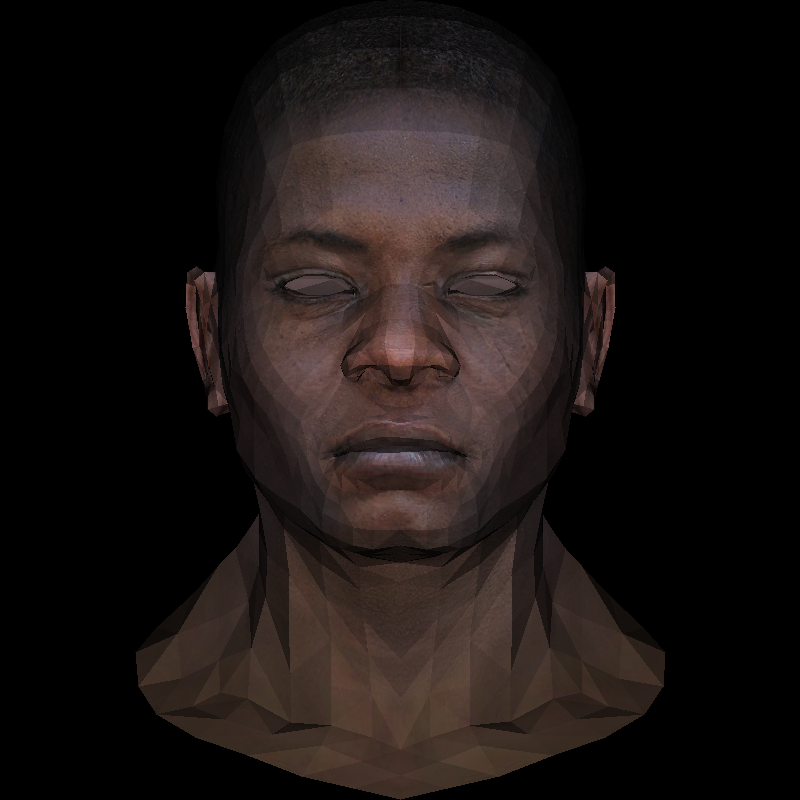
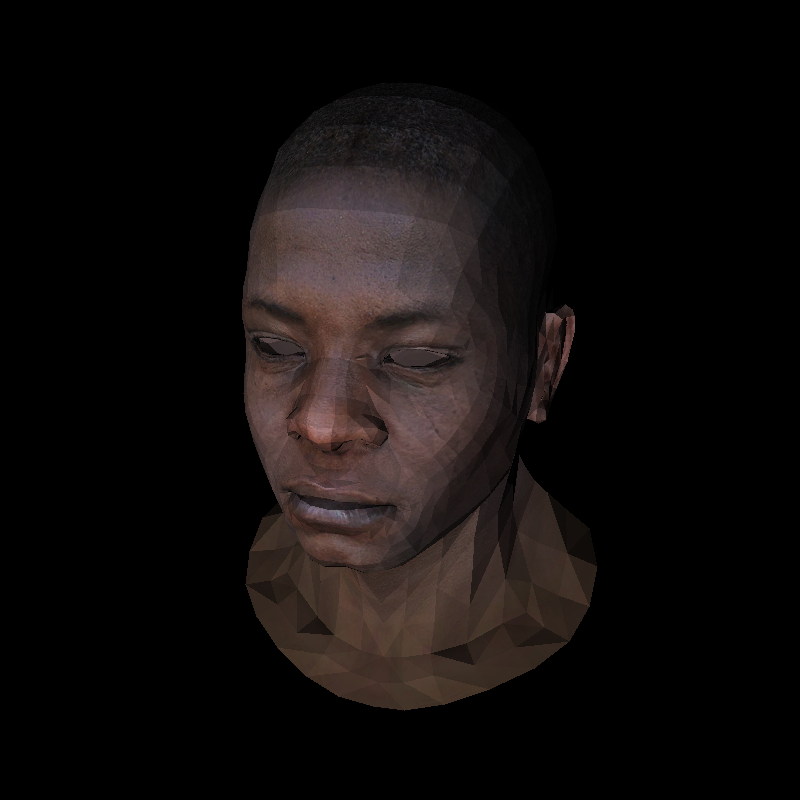
Add lookat matrix

Changed region(s): [[0.1562, 0.0, 0.8438, 1.0]]

diff --git a/src/main.rs b/src/main.rs
@@ -1,8 +1,9 @@
-use image::{imageops, Rgb, RgbImage, Pixel};
-use std::{mem};
+use image::{imageops, Pixel, Rgb, RgbImage};
+use std::mem;
+mod camera;
 mod model;
 mod rgb;
-use nalgebra::{SVector, Vector2, Vector3};
+use nalgebra::{SVector, SMatrix, Vector2, Vector3};
 
 const WIDTH: f32 = 800.0;
 const HEIGHT: f32 = 800.;
@@ -20,7 +21,6 @@ fn barycentric(pts: &Vec<SVector<f32, 3>>, P: SVector<f32, 3>) -> SVector<f32, 3
     );
 
     let u = v1.cross(&v2);
-    //println!("{} {} {}", u.x, u.y, u.z);
 
     /* `pts` and `P` has integer value as coordinates
     so `abs(u[2])` < 1 means `u[2]` is 0, that means
@@ -72,7 +72,7 @@ fn triangle(
     image: &mut RgbImage,
     texture: &RgbImage,
     vertices_texture_coords: Vec<SVector<f32, 3>>,
-    intensity: f32
+    intensity: f32,
 ) {
     let (imwidth, imheight) = (image.width() as f32, image.height() as f32);
     let (texwidth, texheight) = (texture.width() as f32, texture.height() as f32);
@@ -111,15 +111,22 @@ fn triangle(
             if zbuffer[(P.x + P.y * imwidth) as usize] < P.z {
                 zbuffer[(P.x + P.y * imwidth) as usize] = P.z;
 
-                texture_coords = vertices_texture_coords[0]*bc_screen.x + vertices_texture_coords[1]*bc_screen.y + vertices_texture_coords[2]*bc_screen.z;
+                texture_coords = vertices_texture_coords[0] * bc_screen.x
+                    + vertices_texture_coords[1] * bc_screen.y
+                    + vertices_texture_coords[2] * bc_screen.z;
 
-                pixel_color = texture.get_pixel((texture_coords[0] * texwidth) as u32, ((1. - texture_coords[1])*texheight) as u32).to_rgb();
+                pixel_color = texture
+                    .get_pixel(
+                        (texture_coords[0] * texwidth) as u32,
+                        ((1. - texture_coords[1]) * texheight) as u32,
+                    )
+                    .to_rgb();
                 pixel_color = Rgb([
                     ((pixel_color.0[0] as f32) * intensity) as u8,
                     ((pixel_color.0[1] as f32) * intensity) as u8,
                     ((pixel_color.0[2] as f32) * intensity) as u8,
                 ]);
-                    
+
                 image.put_pixel(P.x as u32, P.y as u32, pixel_color)
             }
             P.y += 1.;
@@ -132,13 +139,16 @@ fn world2screen(v: SVector<f32, 3>) -> SVector<f32, 3> {
     return Vector3::new(
         ((v.x + 1.) * WIDTH / 2. + 0.5).floor(),
         ((v.y + 1.) * HEIGHT / 2. + 0.5).floor(),
-        v.z
+        v.z,
     );
 }
 
 fn main() {
     let mut zbuffer: Vec<f32> = vec![-std::f32::MAX; (WIDTH * HEIGHT) as usize];
     let light_dir: SVector<f32, 3> = Vector3::new(0., 0., -1.);
+    let eye: SVector<f32, 3> = Vector3::new(1., 1., 3.);
+    let center: SVector<f32, 3> = Vector3::new(0., 0., 0.);
+    let up: SVector<f32, 3> = Vector3::new(0., 1., 0.);
 
     let mut imgbuf: RgbImage = image::ImageBuffer::new(WIDTH as u32, HEIGHT as u32);
 
@@ -150,7 +160,9 @@ fn main() {
         }
     };
 
-    let texture = image::open("./obj/african_head_diffuse.tga").unwrap().to_rgb8();
+    let texture = image::open("./obj/african_head_diffuse.tga")
+        .unwrap()
+        .to_rgb8();
 
     // Declare variables to use later
     let mut face: &Vec<i32> = &Vec::new();
@@ -160,12 +172,17 @@ fn main() {
     let mut n: SVector<f32, 3>;
     let mut t: SVector<f32, 3>;
 
+    let mut projection: SMatrix<f32, 4, 4> = SMatrix::identity();
+    let modelview = camera::lookat(eye, center, up);
+    projection[(3, 2)] = -1. / (eye - center).z;
+    let viewport = camera::viewport(WIDTH / 8., HEIGHT / 8., WIDTH * 3./4., HEIGHT* 3./4.);
+
     // Render
     for i in 0..model.nfaces as usize {
         face_texture = &model.faces_texture_coords[i];
         face = &model.faces[i];
-        
-        let mut screen_coords: Vec<SVector<f32, 3>> = Vec::new();  // Is it bad to use let inside a for loop? @TODO: Investigate
+
+        let mut screen_coords: Vec<SVector<f32, 3>> = Vec::new(); // Is it bad to use let inside a for loop? @TODO: Investigate
         let mut world_coords: Vec<SVector<f32, 3>> = Vec::new();
         let mut texture_coords: Vec<SVector<f32, 3>> = Vec::new();
 
@@ -174,7 +191,10 @@ fn main() {
             t = model.verts_texture[face_texture[j] as usize];
 
             texture_coords.push(t);
-            screen_coords.push(world2screen(v));
+            // screen_coords.push(world2screen(v));
+            screen_coords.push(
+                camera::m2v(viewport * projection * modelview * camera::v2m(v))
+            );
             world_coords.push(v);
         }
 
@@ -190,7 +210,7 @@ fn main() {
                 &mut imgbuf,
                 &texture,
                 texture_coords,
-                intensity
+                intensity,
             );
         }
     }
@@ -198,41 +218,3 @@ fn main() {
     imgbuf = imageops::flip_vertical(&imgbuf);
     imgbuf.save("test.png").unwrap();
 }
-
-
-// fn main_test() {
-//     let mut zbuffer: Vec<f32> = vec![-std::f32::MAX; (WIDTH * HEIGHT) as usize];
-
-//     let mut imgbuf: RgbImage = image::ImageBuffer::new(WIDTH as u32, HEIGHT as u32);
-//     let model = match model::Model::from_file("./obj/triangle.obj") {
-//         Ok(m) => m,
-//         Err(e) => {
-//             println!("Error {}", e.to_string());
-//             std::process::exit(1)
-//         }
-//     };
-//     let texture = image::open("./obj/easy_texture.png").unwrap().to_rgb8();
-
-//     let screen_coords: Vec<SVector<f32, 3>> = vec![
-//         Vector3::new(45., 45., 0.),
-//         Vector3::new(256., 467., 0.),
-//         Vector3::new(467., 45., 0.),
-//     ];
-
-//     let mut vertices_colors: Vec<RgbExt<f32>> = vec![
-//         RgbExt(Rgb([1., 0., 0.])),
-//         RgbExt(Rgb([0., 1., 0.])),
-//         RgbExt(Rgb([0., 0., 1.])),
-//     ];
-
-//     triangle(
-//         screen_coords,
-//         &mut zbuffer,
-//         &mut imgbuf,
-//         &texture,
-
-//     );
-
-//     imgbuf = imageops::flip_vertical(&imgbuf);
-//     imgbuf.save("test.png").unwrap();
-// }

diff --git a/src/camera.rs b/src/camera.rs
@@ -1,0 +1,43 @@
+use nalgebra::{Matrix4x1, SMatrix, SVector, Vector2, Vector3};
+
+const DEPTH: f32 = 255.;
+
+pub fn v2m(v: SVector<f32, 3>) -> SMatrix<f32, 4, 1> {
+    let m = Matrix4x1::from_column_slice(&[v.x, v.y, v.z, 1.]);
+    return m;
+}
+
+pub fn m2v(m: SMatrix<f32, 4, 1>) -> SVector<f32, 3> {
+    let v = Vector3::new(
+        (m[(0, 0)] / m[(3, 0)]).floor(),
+        (m[(1, 0)] / m[(3, 0)]).floor(),
+        (m[(2, 0)] / m[(3, 0)]).floor(),
+    );
+    return v;
+}
+
+pub fn viewport(x: f32, y: f32, w: f32, h: f32) -> SMatrix<f32, 4, 4> {
+    let mut m: SMatrix<f32, 4, 4> = SMatrix::identity();
+    m[(0, 3)] = x + w / 2.;
+    m[(1, 3)] = y + h / 2.;
+    m[(2, 3)] = DEPTH / 2.;
+
+    m[(0, 0)] = w / 2.;
+    m[(1, 1)] = h / 2.;
+    m[(2, 2)] = DEPTH / 2.;
+    return m;
+}
+
+pub fn lookat(eye: SVector<f32, 3>, center: SVector<f32, 3>, up: SVector<f32, 3>) -> SMatrix<f32, 4, 4> {
+    let z: SVector<f32, 3> = (eye - center).normalize();
+    let x: SVector<f32, 3> = up.cross(&z).normalize();
+    let y: SVector<f32, 3> = z.cross(&x).normalize();
+    let mut res: SMatrix<f32, 4, 4> = SMatrix::identity();
+    for i in 0..3 {
+        res[(0, i)] = x[i];
+        res[(1, i)] = y[i];
+        res[(2, i)] = z[i];
+        res[(i, 3)] = -center[i];
+    }
+    return res;
+}
